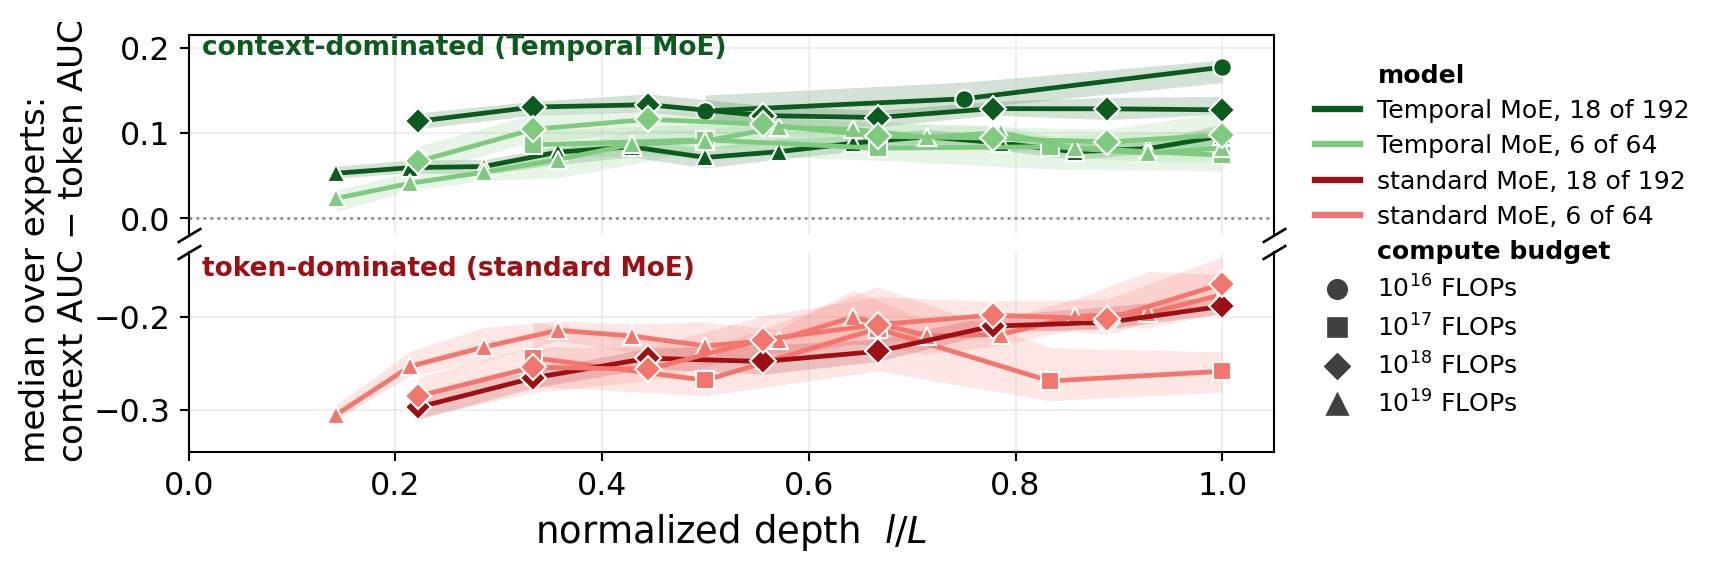
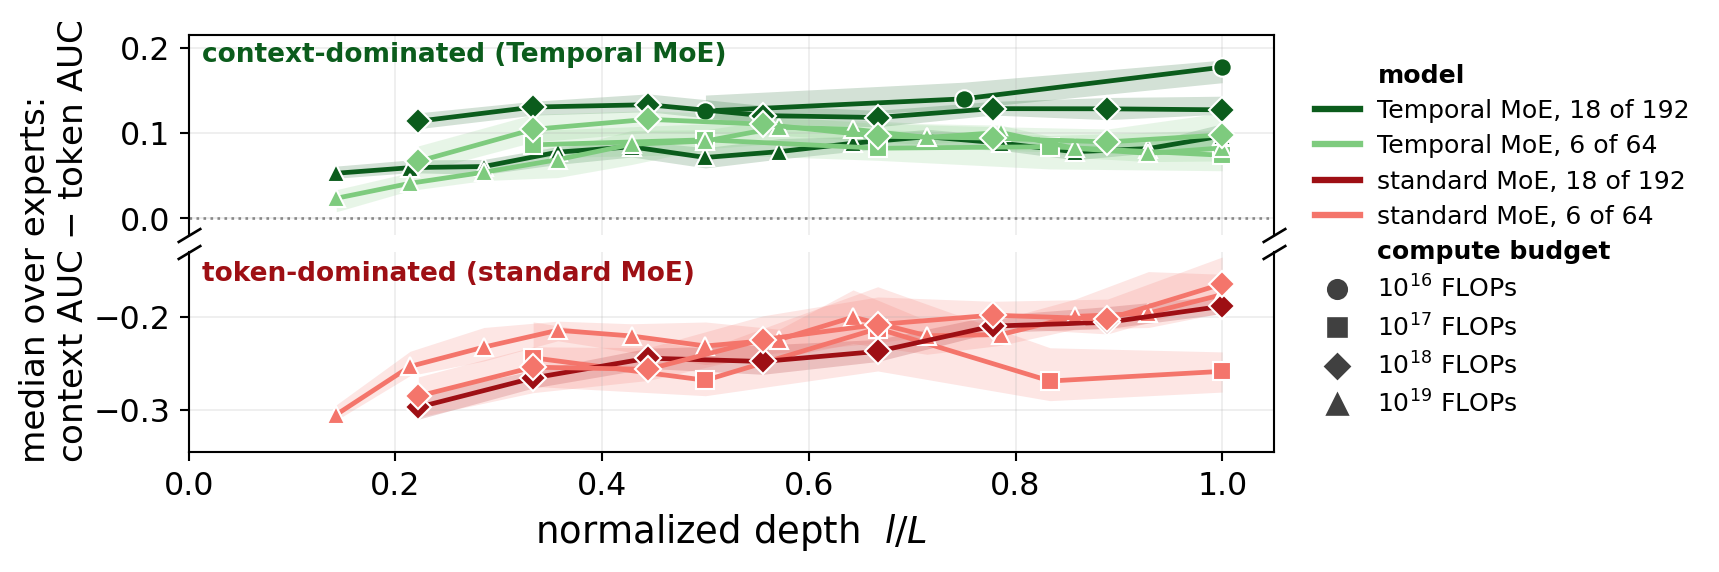
Locus producer: in-panel labels anchored top-down; paper submodule bumped

Changed region(s): [[0.1233, 0.0594, 0.4316, 0.1189], [0.1233, 0.4458, 0.4008, 0.5052]]

diff --git a/analysis/plots/plot_locus_by_layer.py b/analysis/plots/plot_locus_by_layer.py
@@ -288,10 +288,11 @@ fig.supylabel("median over experts:\ncontext AUC $-$ token AUC" if PAPER else
               x=0.012 if PAPER else 0.035, fontsize=13)
 if PAPER:
     fig.subplots_adjust(left=0.105, right=0.70)
-hi.text(0.012, 0.90, "context-dominated (Temporal MoE)", transform=hi.transAxes,
-        fontsize=10, color=TMP_FINE, weight="bold")
-lo.text(0.012, 0.88 if PAPER else 0.08, "token-dominated (standard MoE)",
-        transform=lo.transAxes, fontsize=10, color=MOE_FINE, weight="bold")
+hi.text(0.012, 0.965, "context-dominated (Temporal MoE)", transform=hi.transAxes,
+        fontsize=10, color=TMP_FINE, weight="bold", va="top")
+lo.text(0.012, 0.955 if PAPER else 0.08, "token-dominated (standard MoE)",
+        transform=lo.transAxes, fontsize=10, color=MOE_FINE, weight="bold",
+        va="top" if PAPER else "baseline")
 
 hh, ll = hi.get_legend_handles_labels()
 h2, l2 = lo.get_legend_handles_labels()
